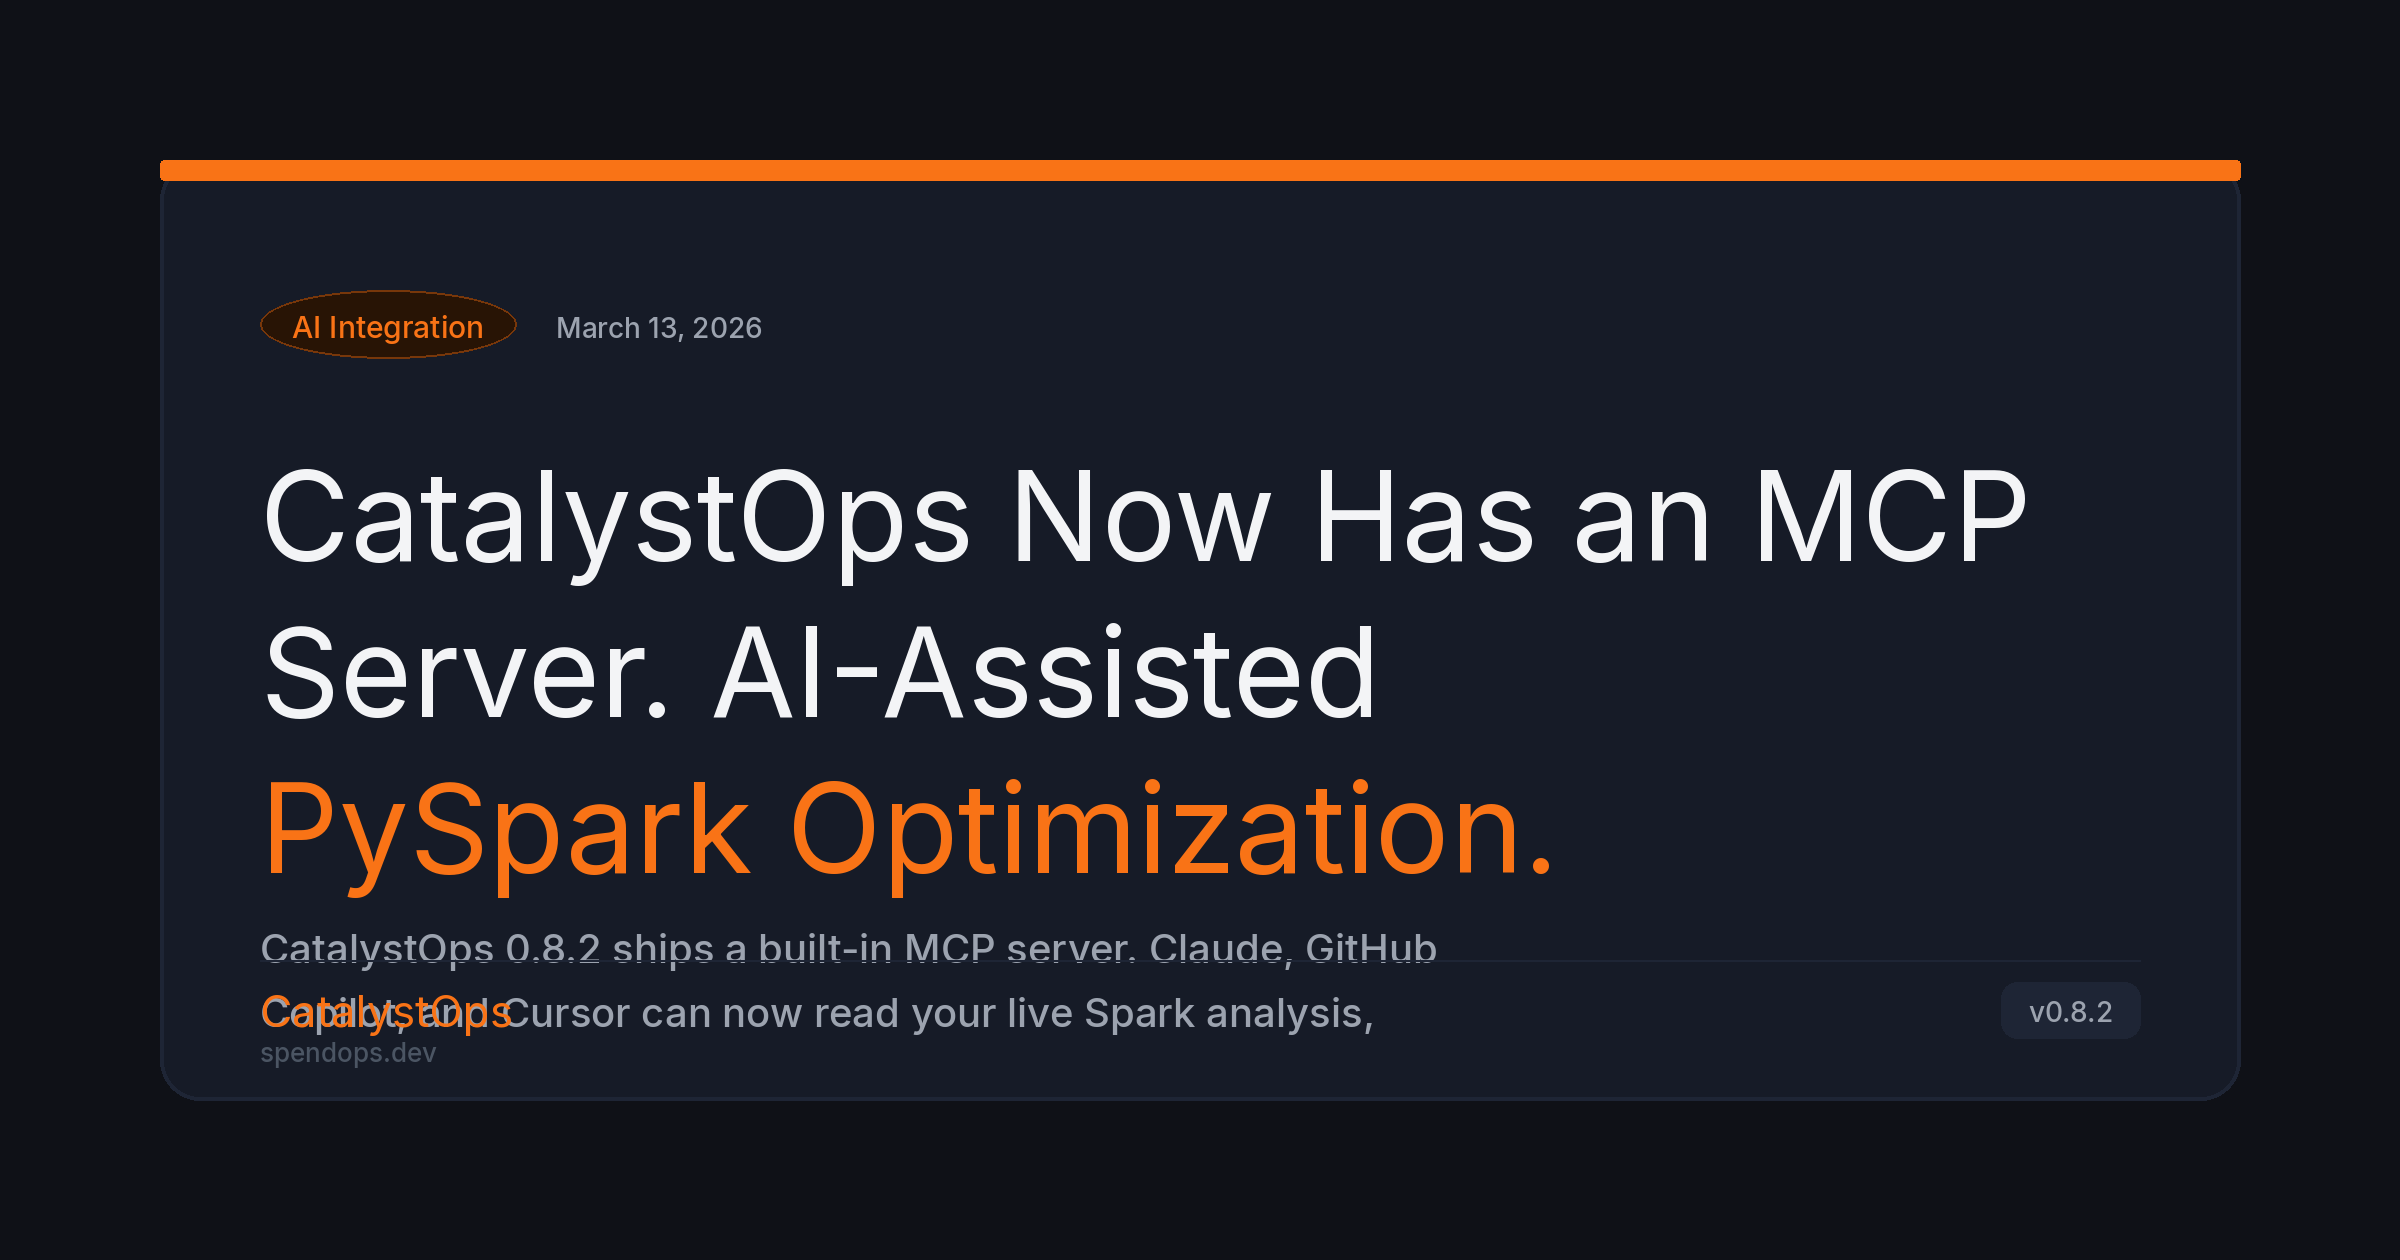
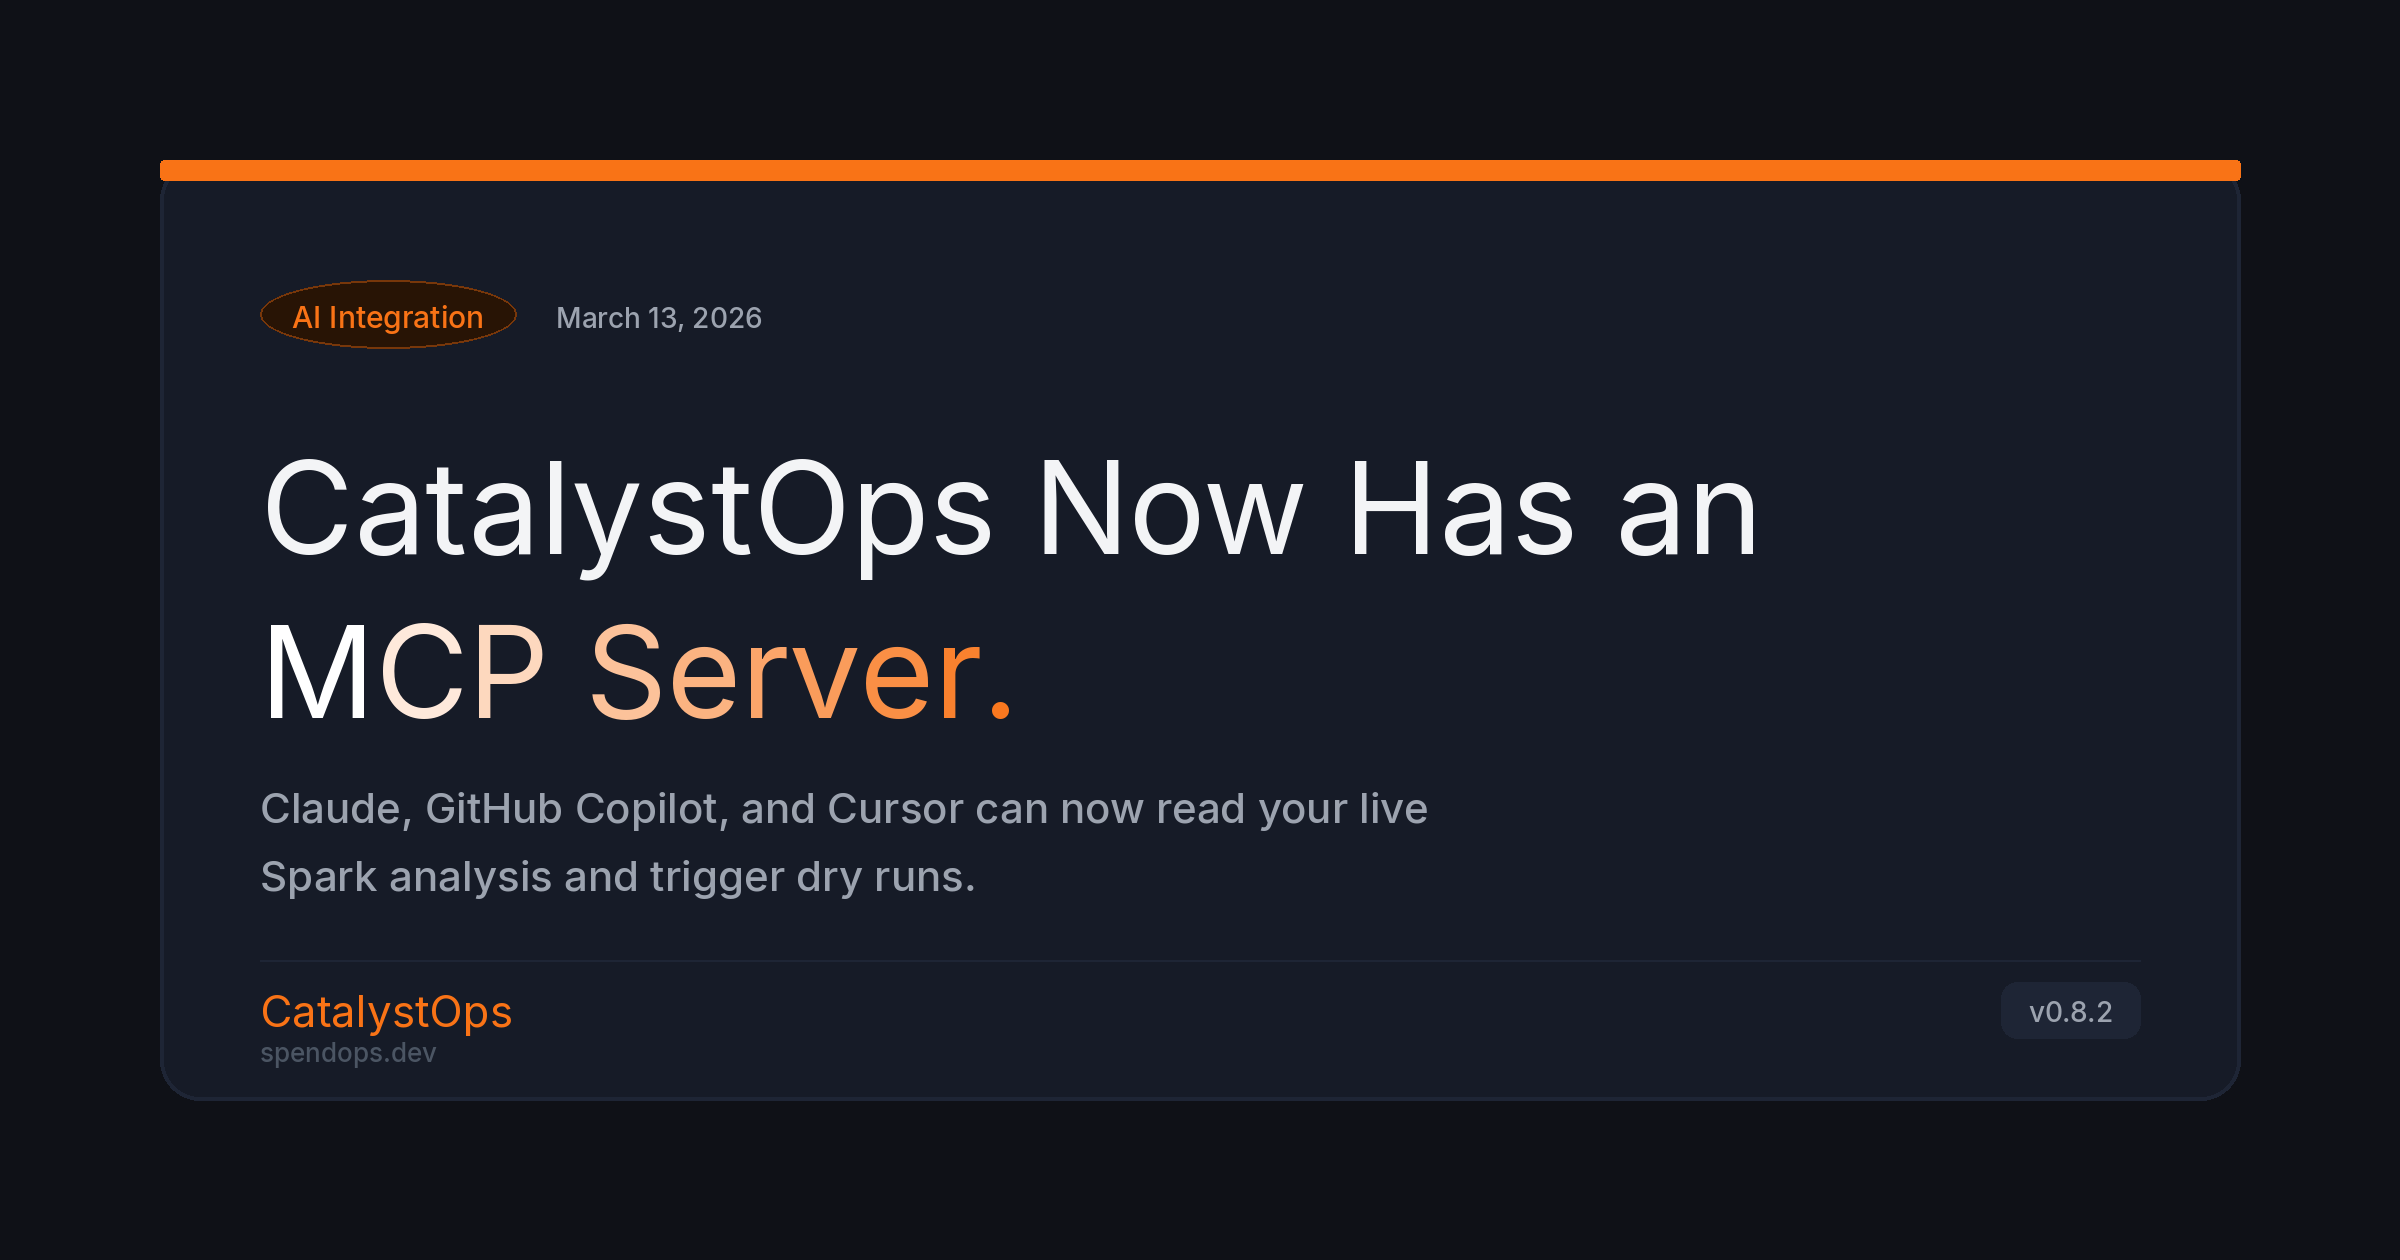
OG images with gradient accent text + updated generation script

diff --git a/scripts/generate_og.py b/scripts/generate_og.py
@@ -21,6 +21,24 @@ def ensure_fonts():
         fm.write_bytes(z.open("extras/ttf/Inter-Medium.ttf").read())
     return str(fv), str(fm)
 
+def gradient_text(text, font, color_start, color_end):
+    """Return RGBA image of text with horizontal gradient."""
+    tmp = Image.new("RGBA", (1,1)); td = ImageDraw.Draw(tmp)
+    total_w = int(td.textlength(text, font=font))
+    h = int(font.size * 1.5)
+    out = Image.new("RGBA", (total_w + 4, h), (0,0,0,0))
+    od = ImageDraw.Draw(out)
+    cx = 0
+    for ch in text:
+        cw = int(td.textlength(ch, font=font))
+        t = cx / total_w if total_w else 0
+        r = int(color_start[0] + t*(color_end[0]-color_start[0]))
+        g = int(color_start[1] + t*(color_end[1]-color_start[1]))
+        b = int(color_start[2] + t*(color_end[2]-color_start[2]))
+        od.text((cx, 0), ch, fill=(r,g,b,255), font=font)
+        cx += cw
+    return out
+
 def extract_meta(html):
     def get(pat, default=""):
         m = re.search(pat, html, re.DOTALL)
@@ -28,7 +46,7 @@ def extract_meta(html):
     badge   = get(r'<span class="badge">([^<]+)</span>')
     date    = get(r'<span class="text-xs text-muted">([A-Z][a-z]+ \d+, \d{4})</span>')
     version = get(r'<span class="text-xs text-muted font-mono[^"]*">(v[\d.]+)</span>')
-    title_block = re.sub(r'<[^>]+>',' ', get(r'<h1[^>]*>(.*?)</h1>'))
+    title_block = re.sub(r'<[^>]+',' ', get(r'<h1[^>]*>(.*?)</h1>'))
     title_block = re.sub(r'\s+',' ', title_block).strip()
     parts = title_block.rsplit(None, 2)
     plain = ' '.join(parts[:-2]) if len(parts) > 2 else title_block
@@ -37,27 +55,29 @@ def extract_meta(html):
     return {"badge":badge or "Blog","date":date,"version":version,
             "title":plain,"accent":accent,"subtitle":desc[:120]}
 
-def make_og(meta, fv, fm, out):
-    img=Image.new("RGB",(W,H),BG); d=ImageDraw.Draw(img)
+def make_og(meta, fv_path, fm_path, out):
+    img = Image.new("RGB",(W,H),BG); d = ImageDraw.Draw(img)
     M=80*SCALE; cx1,cy1,cx2,cy2=M,M,W-M,H-M
     d.rounded_rectangle([cx1,cy1,cx2,cy2],radius=20*SCALE,fill=CARD,outline=BORDER,width=SCALE*2)
     d.rounded_rectangle([cx1,cy1,cx2,cy1+10*SCALE],radius=4,fill=ORANGE)
-    fb=ImageFont.truetype(fm,15*SCALE); fmt=ImageFont.truetype(fm,14*SCALE)
-    ft=ImageFont.truetype(fv,62*SCALE); fs=ImageFont.truetype(fm,20*SCALE)
-    fbr=ImageFont.truetype(fv,22*SCALE); fu=ImageFont.truetype(fm,13*SCALE)
-    fver=ImageFont.truetype(fm,14*SCALE)
-    px=cx1+50*SCALE; bx,by=px,cy1+65*SCALE
+    fb=ImageFont.truetype(fm_path,15*SCALE); fmt=ImageFont.truetype(fm_path,14*SCALE)
+    ft=ImageFont.truetype(fv_path,64*SCALE); fs=ImageFont.truetype(fm_path,21*SCALE)
+    fbr=ImageFont.truetype(fv_path,22*SCALE); fu=ImageFont.truetype(fm_path,13*SCALE)
+    fver=ImageFont.truetype(fm_path,14*SCALE)
+    px=cx1+50*SCALE; bx,by=px,cy1+60*SCALE
     bw=int(d.textlength(meta["badge"],font=fb))+32*SCALE; bh=34*SCALE
     d.rounded_rectangle([bx,by,bx+bw,by+bh],radius=999,fill=(40,20,5),outline=(120,55,10),width=SCALE)
     d.text((bx+16*SCALE,by+9*SCALE),meta["badge"],fill=ORANGE,font=fb)
     if meta["date"]: d.text((bx+bw+20*SCALE,by+10*SCALE),meta["date"],fill=GRAY,font=fmt)
-    y=cy1+140*SCALE
-    for line in textwrap.wrap(meta["title"],width=28)[:2]:
-        d.text((px,y),line,fill=WHITE,font=ft); y+=78*SCALE
-    if meta["accent"]: d.text((px,y),meta["accent"],fill=ORANGE,font=ft); y+=78*SCALE
-    y+=8*SCALE
-    for line in textwrap.wrap(meta["subtitle"],width=62)[:2]:
-        d.text((px,y),line,fill=GRAY,font=fs); y+=32*SCALE
+    y=cy1+135*SCALE
+    for line in textwrap.wrap(meta["title"],width=26)[:2]:
+        d.text((px,y),line,fill=WHITE,font=ft); y+=82*SCALE
+    if meta["accent"]:
+        gtxt = gradient_text(meta["accent"],ft,(255,255,255),(249,115,22))
+        img.paste(gtxt,(px,y),gtxt); y+=82*SCALE
+    y+=12*SCALE
+    for line in textwrap.wrap(meta["subtitle"],width=60)[:2]:
+        d.text((px,y),line,fill=GRAY,font=fs); y+=34*SCALE
     div_y=cy2-70*SCALE
     d.line([(px,div_y),(cx2-50*SCALE,div_y)],fill=BORDER,width=SCALE)
     d.text((px,cy2-58*SCALE),"CatalystOps",fill=ORANGE,font=fbr)
